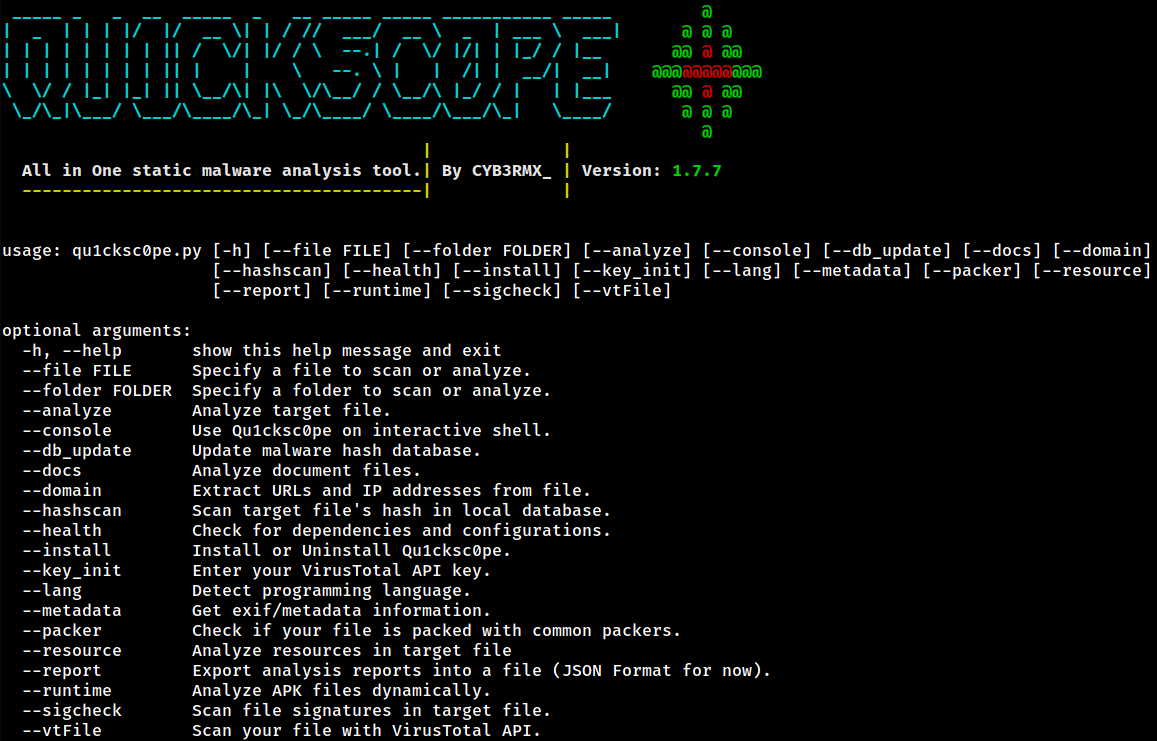
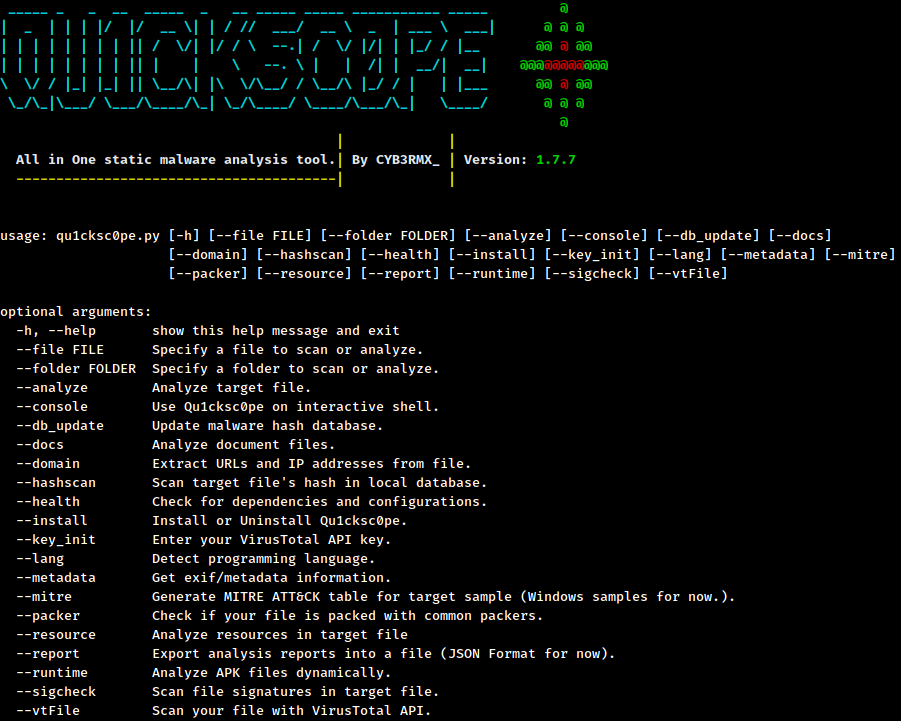
News 01/04/2022 12:10

diff --git a/Modules/mitre.py b/Modules/mitre.py
@@ -1,0 +1,261 @@
+#!/usr/bin/python3
+
+import sys
+
+try:
+    from rich import print
+    from rich.table import Table
+except:
+    print("Error: >rich< module not found.")
+    sys.exit(1)
+
+try:
+    import pefile as pf
+except:
+    print("Error: >pefile< module not found.")
+    sys.exit(1)
+
+try:
+    import zepu1chr3
+except:
+    print("Error: >zepu1chr3< module not found.")
+    sys.exit(1)
+
+# Legends
+infoS = f"[bold cyan][[bold red]*[bold cyan]][white]"
+
+# Specify target binary
+fileName = str(sys.argv[1])
+
+#--------------------------------------------- Gathering all function imports from binary
+print(f"{infoS} Extracting imports from target binary...")
+zep = zepu1chr3.Binary()
+tfl = zep.File(fileName)
+allStrings = []
+try:
+    binaryfile = pf.PE(fileName)
+    for imps in binaryfile.DIRECTORY_ENTRY_IMPORT:
+        try:
+            for im in imps.imports:
+                allStrings.append(im.name.decode("ascii"))
+        except:
+            continue
+except:
+    for imps in zep.GetImports(tfl):
+        try:
+            allStrings.append(imps["realname"])
+        except:
+            continue
+
+# Table matrix
+mitre_table = {
+    "Discovery": {
+        "Account Discovery": {
+            "api_list": [
+                "IsNTAdmin",
+                "IsUserAnAdmin",
+                "GetUserNameA",
+                "GetUserNameEx"
+            ], 
+            "score": 0
+        },
+        "Application Window Discovery": {
+            "api_list": [
+                "GetWindowThreadProcessId",
+                "GetWindowLongA",
+                "GetForegroundWindow",
+                "FindWindow",
+                "FindWindowA",
+                "FindWindowEx",
+                "GetActiveWindow",
+                "GetWindowPlacement",
+                "GetProcessWindowStation"
+            ],
+            "score": 0
+        },
+        "File and Directory Discovery": {
+            "api_list": [
+                "GetCurrentDirectoryA",
+                "FileSystemInfo",
+                "GetPathRoot",
+                "SHGetFileInfoW",
+                "SHGetFileInfoA",
+                "FindFirstFileA",
+                "FindNextFileA",
+                "GetWindowsDirectoryA",
+                "GetWindowsDirectoryW",
+                "GetWindowsDirectory",
+                "GetSystemDirectoryA"
+            ],
+            "score": 0
+        },
+        "Process Discovery": {
+            "api_list": [
+                "EnumProcesses",
+                "CreateToolhelp32Snapshot"
+            ],
+            "score": 0
+        },
+        "Query Registry": {
+            "api_list": [
+                "RegQueryValueEx",
+                "RegQueryInfoKeyW",
+                "RegQueryInfoKeyA",
+                "RegQueryValueExA",
+                "RegQueryValueExW",
+                "RegGetValue"
+            ],
+            "score": 0
+        }
+    },
+    "Privilege Escalation": {
+        "Access Token Manipulation": {
+            "api_list": [
+                "ImpersonateLoggedOnUser",
+                "DuplicateToken",
+                "DuplicateTokenEx",
+                "SetThreadToken",
+                "CreateProcessWithTokenW",
+                "LogonUser",
+                "CreateProcess",
+                "OpenProcessToken",
+                "AdjustTokenPrivileges"
+            ],
+            "score": 0
+        }
+    },
+    "Persistence": {
+        "Event Triggered Execution": {
+            "api_list": [
+                "CreateProcess",
+                "CreateProcessAsUser",
+                "CreateProcessWithLoginW",
+                "CreateProcessWithTokenW",
+                "WinExec"
+            ],
+            "score": 0
+        },
+        "Boot or Logon Autostart Execution": {
+            "api_list": [
+                "AddMonitor"
+            ],
+            "score": 0
+        }
+    },
+    "Collection": {
+        "Screen Capture": {
+            "api_list": [
+                "CopyFromScreen"
+            ],
+            "score": 0
+        },
+        "Input Capture": {
+            "api_list": [
+                "GetClipboardData",
+                "EnumClipboardFormats",
+                "OpenClipboard",
+                "CountClipboardFormats",
+                "SetWindowsHook",
+                "SetWindowsHookEx",
+                "SetWindowsHookExA",
+                "SetWindowsHookExW",
+                "GetKeyState",
+                "GetAsyncKeyState"
+            ],
+            "score": 0
+        }
+    },
+    "Credential Access": {
+        "Input Capture": {
+            "api_list": [
+                "GetClipboardData",
+                "EnumClipboardFormats",
+                "OpenClipboard",
+                "CountClipboardFormats",
+                "SetWindowsHook",
+                "SetWindowsHookEx",
+                "SetWindowsHookExA",
+                "SetWindowsHookExW",
+                "GetKeyState",
+                "GetAsyncKeyState",
+                "AttachThreadInput"
+            ],
+            "score": 0
+        },
+        "Network Sniffing": {
+            "api_list": [
+                "WSAIoctl"
+            ],
+            "score": 0
+        }
+    },
+    "Defense Evasion": {
+        "Modify Registry": {
+            "api_list": [
+                "RegCreateKeyTransactedA",
+                "RegCreateKeyExW",
+                "RegCreateKeyExA",
+                "RegSetValueExW",
+                "RegSetValueExA",
+                "RegDeleteKeyExA",
+                "RegDeleteKeyA",
+                "RegDeleteKeyW",
+                "RegDeleteKeyExW",
+                "RegDeleteValueA",
+                "RegDeleteValueW",
+                "RegCreateKeyA",
+                "RegCreateKeyW"
+            ],
+            "score": 0
+        },
+        "Time Based Evasion": {
+            "api_list": [
+                "NtDelayExecution",
+                "Sleep"
+            ],
+            "score": 0
+        }
+    }
+}
+
+# Defining function that parses windows api to make table
+def MakeMitreTable():
+    print(f"{infoS} Rendering tables...\n")
+    for key in mitre_table:
+        for api in mitre_table[key]:
+            for funcs in mitre_table[key][api]:
+                for af in mitre_table[key][api]["api_list"]:
+                    if af in allStrings:
+                        mitre_table[key][api]["score"] += 1
+
+    # Parsing table
+    table_contents = {
+        "Discovery": [],
+        "Privilege Escalation": [],
+        "Persistence": [],
+        "Collection": [],
+        "Credential Access": [],
+        "Defense Evasion": []
+    }
+    for key in mitre_table:
+        for api in mitre_table[key]:
+            for funcs in mitre_table[key][api]:
+                if mitre_table[key][api]["score"] > 0:
+                    if api not in table_contents[key]:
+                        table_contents[key].append(api)
+
+    # Rendering...
+    tech_count = 0
+    for tech in table_contents:
+        if table_contents[tech] != []:
+            mtable = Table()
+            mtable.add_column(f"[bold green]{tech}", justify="center")
+            for content in table_contents[tech]:
+                mtable.add_row(content)
+            print(mtable)
+            tech_count += 1
+    if tech_count == 0:
+        print("[bold wihte on red]Not any techniques detected!")
+
+# Execution
+MakeMitreTable()

diff --git a/Modules/winAnalyzer.py b/Modules/winAnalyzer.py
@@ -333,36 +333,39 @@ def Analyzer():
 
     # Parsing sections
     for sect in pe.sections:
-        if sect.get_entropy() >= 7:
-            peStatistics.add_row(
-                str(sect.Name.decode().rstrip('\x00')),
-                f"{hex(sect.Misc_VirtualSize)}",
-                f"{hex(sect.VirtualAddress)}",
-                f"{hex(sect.SizeOfRawData)}",
-                f"{hex(sect.PointerToRawData)}",
-                f"[bold red]{sect.get_entropy()} [blink][i]Possible obfuscation!![/i][/blink]"
-            )
-        else:
-            peStatistics.add_row(
-                str(sect.Name.decode().rstrip('\x00')),
-                f"{hex(sect.Misc_VirtualSize)}",
-                f"{hex(sect.VirtualAddress)}",
-                f"{hex(sect.SizeOfRawData)}",
-                f"{hex(sect.PointerToRawData)}",
-                str(sect.get_entropy())
-            )
-        winrep["sections"].update(
-            {
-                str(sect.Name.decode().rstrip('\x00')):
+        try:
+            if sect.get_entropy() >= 7:
+                peStatistics.add_row(
+                    str(sect.Name.decode().rstrip('\x00')),
+                    f"{hex(sect.Misc_VirtualSize)}",
+                    f"{hex(sect.VirtualAddress)}",
+                    f"{hex(sect.SizeOfRawData)}",
+                    f"{hex(sect.PointerToRawData)}",
+                    f"[bold red]{sect.get_entropy()} [blink][i]Possible obfuscation!![/i][/blink]"
+                )
+            else:
+                peStatistics.add_row(
+                    str(sect.Name.decode().rstrip('\x00')),
+                    f"{hex(sect.Misc_VirtualSize)}",
+                    f"{hex(sect.VirtualAddress)}",
+                    f"{hex(sect.SizeOfRawData)}",
+                    f"{hex(sect.PointerToRawData)}",
+                    str(sect.get_entropy())
+                )
+            winrep["sections"].update(
                 {
-                    "virtualsize": hex(sect.Misc_VirtualSize),
-                    "virtualaddress": hex(sect.VirtualAddress),
-                    "sizeofrawdata": hex(sect.SizeOfRawData),
-                    "pointertorawdata": hex(sect.PointerToRawData),
-                    "entropy": str(sect.get_entropy())
+                    str(sect.Name.decode().rstrip('\x00')):
+                    {
+                        "virtualsize": hex(sect.Misc_VirtualSize),
+                        "virtualaddress": hex(sect.VirtualAddress),
+                        "sizeofrawdata": hex(sect.SizeOfRawData),
+                        "pointertorawdata": hex(sect.PointerToRawData),
+                        "entropy": str(sect.get_entropy())
+                    }
                 }
-            }
-        )
+            )
+        except:
+            continue
     print(peStatistics)
 
     # Statistics zone

diff --git a/qu1cksc0pe.py b/qu1cksc0pe.py
@@ -122,6 +122,9 @@ parser.add_argument("--lang", required=False,
 parser.add_argument("--metadata", required=False,
                     help="Get exif/metadata information.",
                     action="store_true")
+parser.add_argument("--mitre", required=False,
+                    help="Generate MITRE ATT&CK table for target sample (Windows samples for now.).",
+                    action="store_true")
 parser.add_argument("--packer", required=False,
                     help="Check if your file is packed with common packers.",
                     action="store_true")
@@ -276,6 +279,17 @@ def Qu1cksc0pe():
         # Handling --folder argument
         if args.folder is not None:
             print("[bold white on red][blink]--metadata[/blink] argument is not supported for folder analyzing!\n")
+            sys.exit(1)
+
+    # MITRE ATT&CK
+    if args.mitre:
+        # Handling --file argument
+        if args.file is not None:
+            command = f"python3 {sc0pe_path}/Modules/mitre.py {args.file}"
+            os.system(command)
+        # Handling --folder argument
+        if args.folder is not None:
+            print("[bold white on red][blink]--mitre[/blink] argument is not supported for folder analyzing!\n")
             sys.exit(1)
 
     # Language detection

diff --git a/Modules/nonExecAnalyzer.py b/Modules/nonExecAnalyzer.py
@@ -47,7 +47,7 @@ def MacroHunter(targetFile):
         fileData = open(targetFile, "rb").read()
         vbaparser = VBA_Parser(targetFile, fileData)
         macroList = list(vbaparser.analyze_macros())
-        if vbaparser.contains_macros == True:
+        if vbaparser.contains_vba_macros == True:
             for fi in range(0, len(macroList)):
                 if macroList[fi][0] == 'Suspicious':
                     if "(use option --deobf to deobfuscate)" in macroList[fi][2]:

diff --git a/README.md b/README.md
@@ -22,9 +22,11 @@ python3 qu1cksc0pe.py --file suspicious_file --analyze
 ![Screen](.animations/Screenshot.png)
 
 # Updates
-<b>23/03/2022</b>
-- [X] Both ```LinuxAnalyzer``` and ```WindowsAnalyzer``` modules are improved.
-- [X] Added new ```Mirai, IsaacWiper, HermeticWiper``` rules and much more detection rules.
+<b>01/04/2022</b>
+- [X] Fixed bugs on ```DocumentAnalyzer``` module.
+- [X] Added ```MITRE ATT&CK``` module. Now Qu1ckcsc0pe can analyze techniques used on malware.<br>
+<b>Usage</b>: ```python3 qu1cksc0pe.py --file malware.exe --mitre```<br>
+![update_png](.animations/mitre.gif)
 
 # Available On
 ![blackarch_banner](.animations/blackarch.png)
@@ -116,6 +118,10 @@ decompiler = JADX_BINARY_PATH <-- You must specify this.
 ## File signature analyzer
 <b>Usage</b>: ```python3 qu1cksc0pe.py --file suspicious_file --sigcheck```<br>
 ![animation](.animations/sigcheck.gif)
+
+## MITRE ATT&CK Technique Extraction
+<b>Usage</b>: ```python3 qu1cksc0pe.py --file suspicious_file --mitre```<br>
+![animation](.animations/mitre.gif)
 
 ## Programming language detection
 <b>Usage</b>: ```python3 qu1cksc0pe.py --file suspicious_executable --lang```<br>
